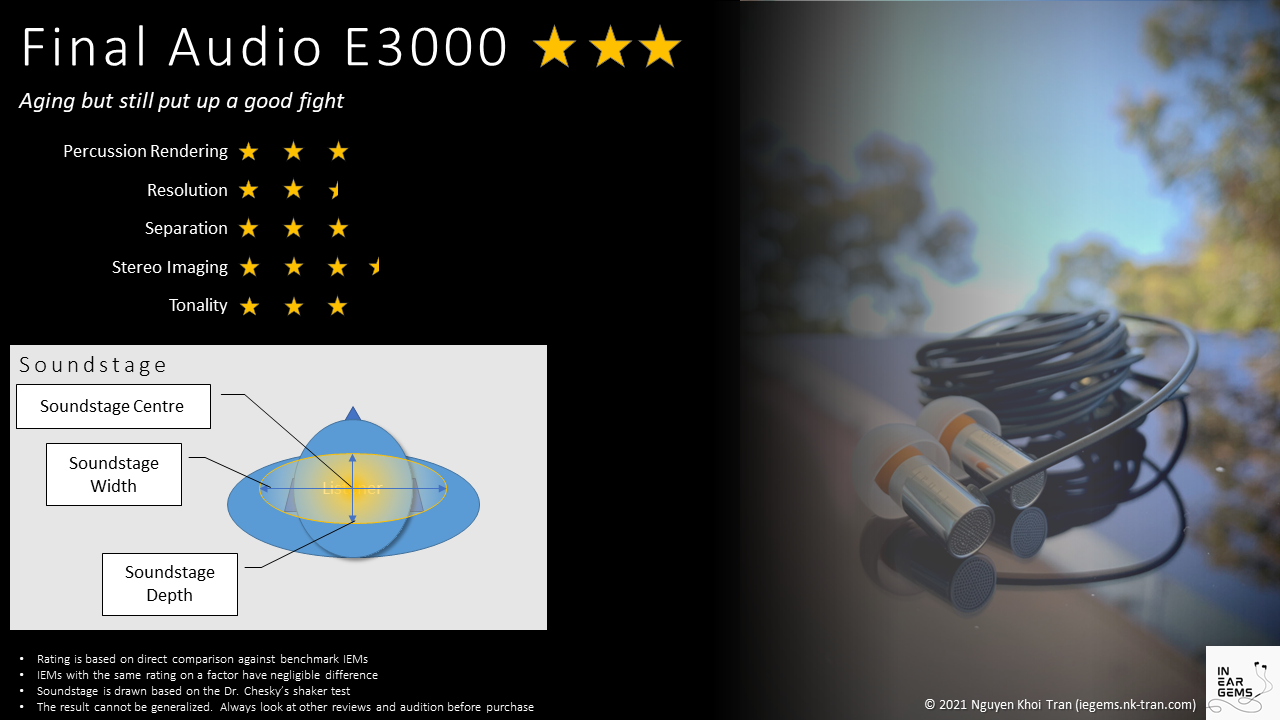
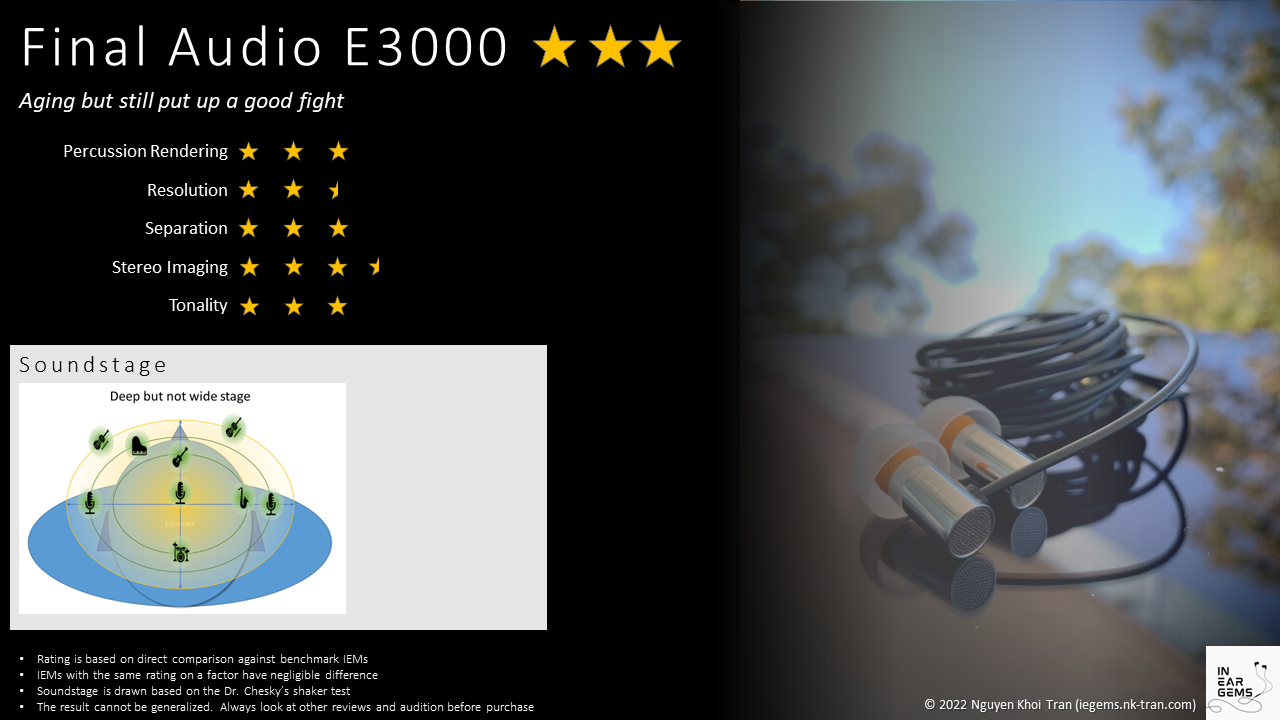
Updated figure and article of E3000 review

Changed region(s): [[0.0, 0.5194, 0.375, 0.8556]]

diff --git a/_posts/2022-06-25-review-E3000.md b/_posts/2022-06-25-review-E3000.md
@@ -45,7 +45,7 @@ Here is what Final says about E3000:
 
 Personally, I dont think the "not emphasizing specific ranges" statement applies to the bass, as E3000 has a lot of wet, thumpy bass. However, the rest of the frequency response is certainly balanced and "flat." None of the details is overly sharpened and pushed to your face. However, if you *turn up* the volume so that the midrange is at the right level and pay attention, you will begin to hear fine details like treble air, background vocal, shimmering sound of chimes. 
 
-## Tonality and Timbre
+## Tonality and Timbre (3/5)
 
 ![Graph](/assets/images/E3000/E3000-graph.png)
 
@@ -59,7 +59,7 @@ Lower frequencies are troublesome, though. To put it bluntly, E3000 sounds conge
 
 Anyhow, the good news is that E3000 is very easy to EQ given its smooth signature. Most of the bass issues are fixed beautifully by E5000 as well. An PEQ profile is given at the end of this review.
 
-## Resolution (3/5)
+## Resolution (2.5/5)
 > Resolution, detail retrieval, or "technical performance" denotes how finely and crisp an IEM or headphone can reproduce audio information. Resolution manifests itself in various aspects: (1) how clear and precise the attack of musical notes are, (2) how pinpoint musical notes are in the soundstage, (3) how detailed and nuanced the decay and reverb of musical notes are, (4) how clear can you hear background elements of a mix and (5) can you hear the whole band or orchestra. A balanced tuning might help but is not a necessity for an IEM to achieve high resolution.
 
 Benchmark IEMs for comparison: 
@@ -74,7 +74,7 @@ Treble and air details are where things get interesting. With [Now you believe i
 
 Resolution-wise, I rate E3000 **2.5/5**: slightly below average due to the veiled midrange. By treble alone, it would have 3.5/5.
 
-# Percussion Rendering
+# Percussion Rendering (3/5)
 
 > Percussion rendering reflects how well the tuning and technical performance of an IEM work together to recreate **realistic sound** of a drum set. Good drum hits have clear attack (controlled by frequencies from 4kHz to 6kHz), full body (midbass frequencies around 200Hz), and physical sensation (subbass frequencies around 50Hz). Good technical performance ("fast" driver) ensures that bass notes can be loud yet detailed. IEMs that cannot control bass very well tend to reduce the bass' loudness to prevent muddiness. 
 
@@ -94,7 +94,7 @@ In general, E3000 nails the attack and body of percussion, but lacks control and
 
 Percussion-wise, I rate E3000 **3/5**. 
 
-# Separation
+# Separation (3/5)
 > Separation can be considered an alternative aspect of "resolution." IEMs with good technical performance can keep similar sounding musical lines separated. Tuning can help improve the *illusion* of separation by cutting midbass and lower-midrange (between 200Hz and 500Hz). However, busy musical passages can still collapse this illusion.
 
 Benchmark IEMs for comparisons:
@@ -109,7 +109,7 @@ E3000 surprisingly good job at rendering a live band in [Ed Sheeran - Tiny Desk 
 
 So, subpar performance in some songs and outstanding performance in others, I would rate E3000 **3/5**: Average.
 
-# Stereo Imaging (Soundstage)
+# Stereo Imaging (Soundstage) (3.5/5)
 
 > Stereo imaging or "soundstage" is a psychoacoustic illusion that different elements of a recording appear at different locations inside and around your head. Your brain creates based on the cues such as the loudness and phase differences between left and right channel. Most IEMs do not differ significantly nor can compete with headphones or loudspeakers. However, some IEMs offer a more spacious soundstage than others. Best IEMs can create multiple layers sound from closer to further away and make some instrument floating slight above your head. 
 
